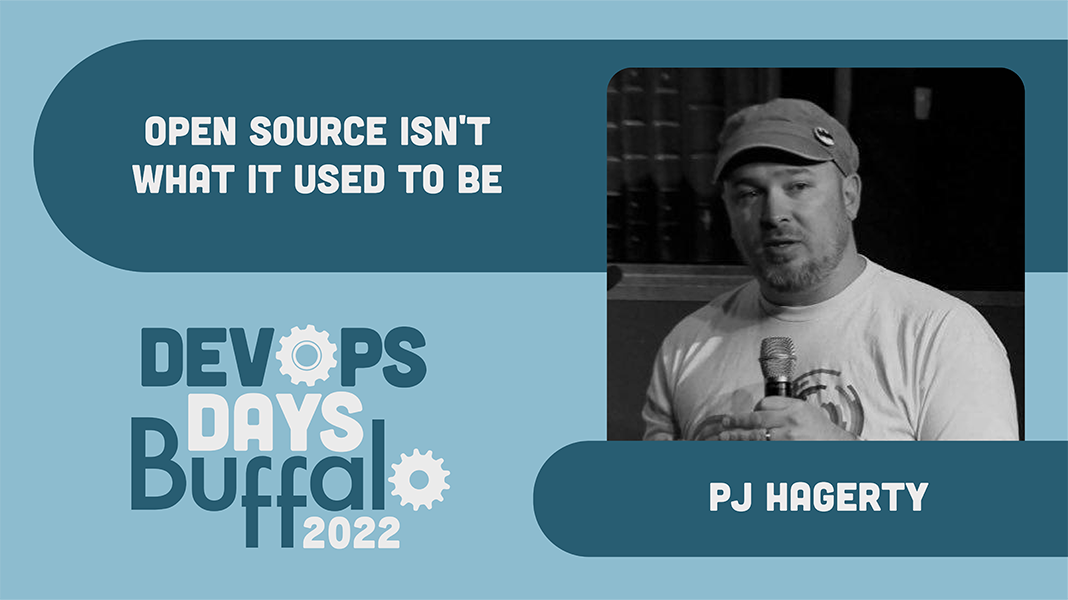
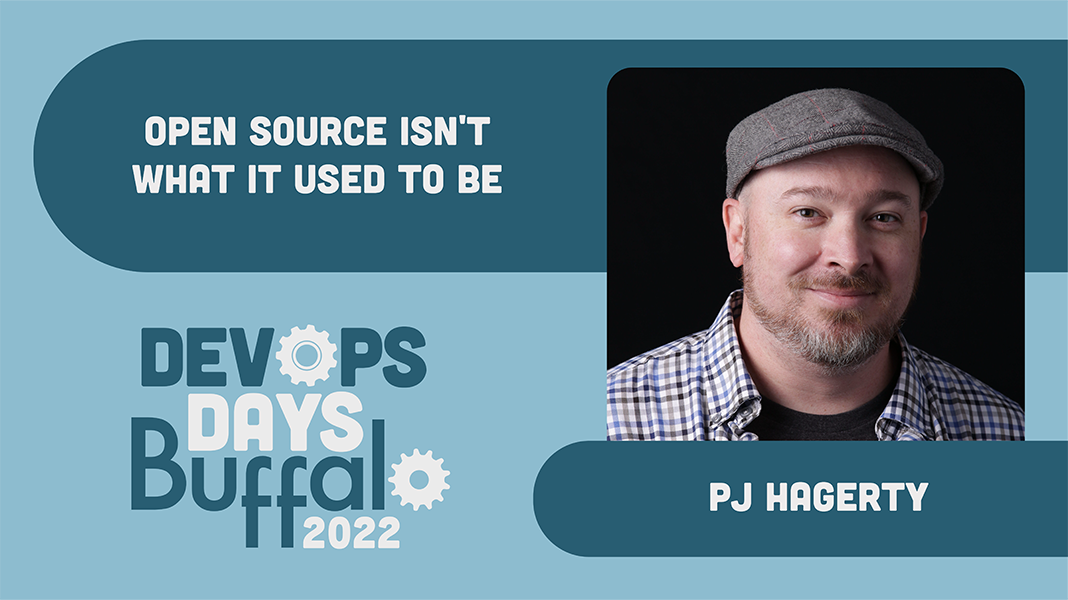
Update PJ's speaker photo.

Changed region(s): [[0.5562, 0.12, 0.9579, 0.75]]

diff --git a/content/events/2022-buffalo/speakers/pj-hagerty.md b/content/events/2022-buffalo/speakers/pj-hagerty.md
@@ -3,7 +3,7 @@ title = "PJ Hagerty"
 twitter = "aspleenic"
 type = "speaker"
 linktitle = "pj-hagerty"
-image = "pj-hagerty.jpeg"
+image = "pj-hagerty.png"
 sharing_image = "pj-hagerty-card.png"
 +++
 
